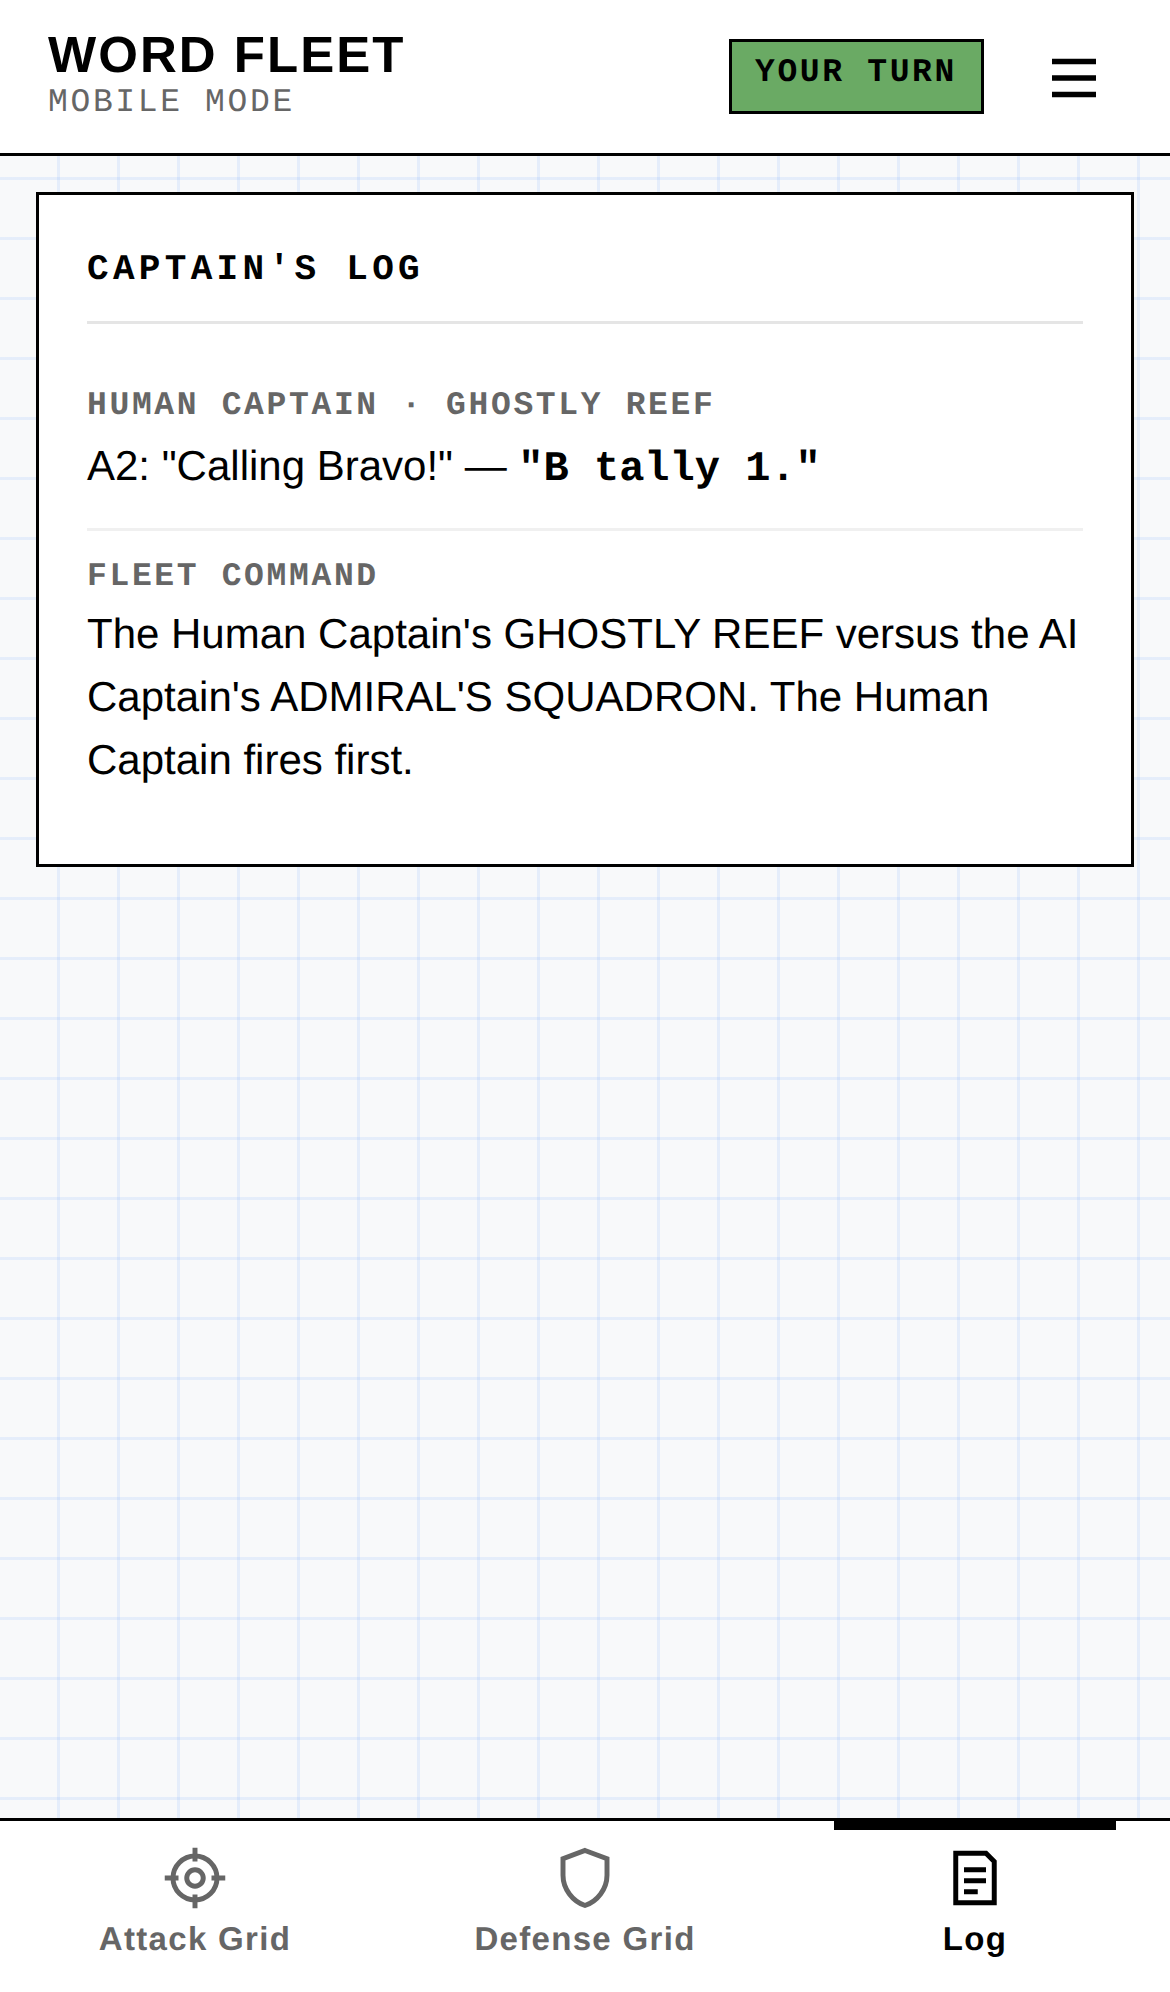
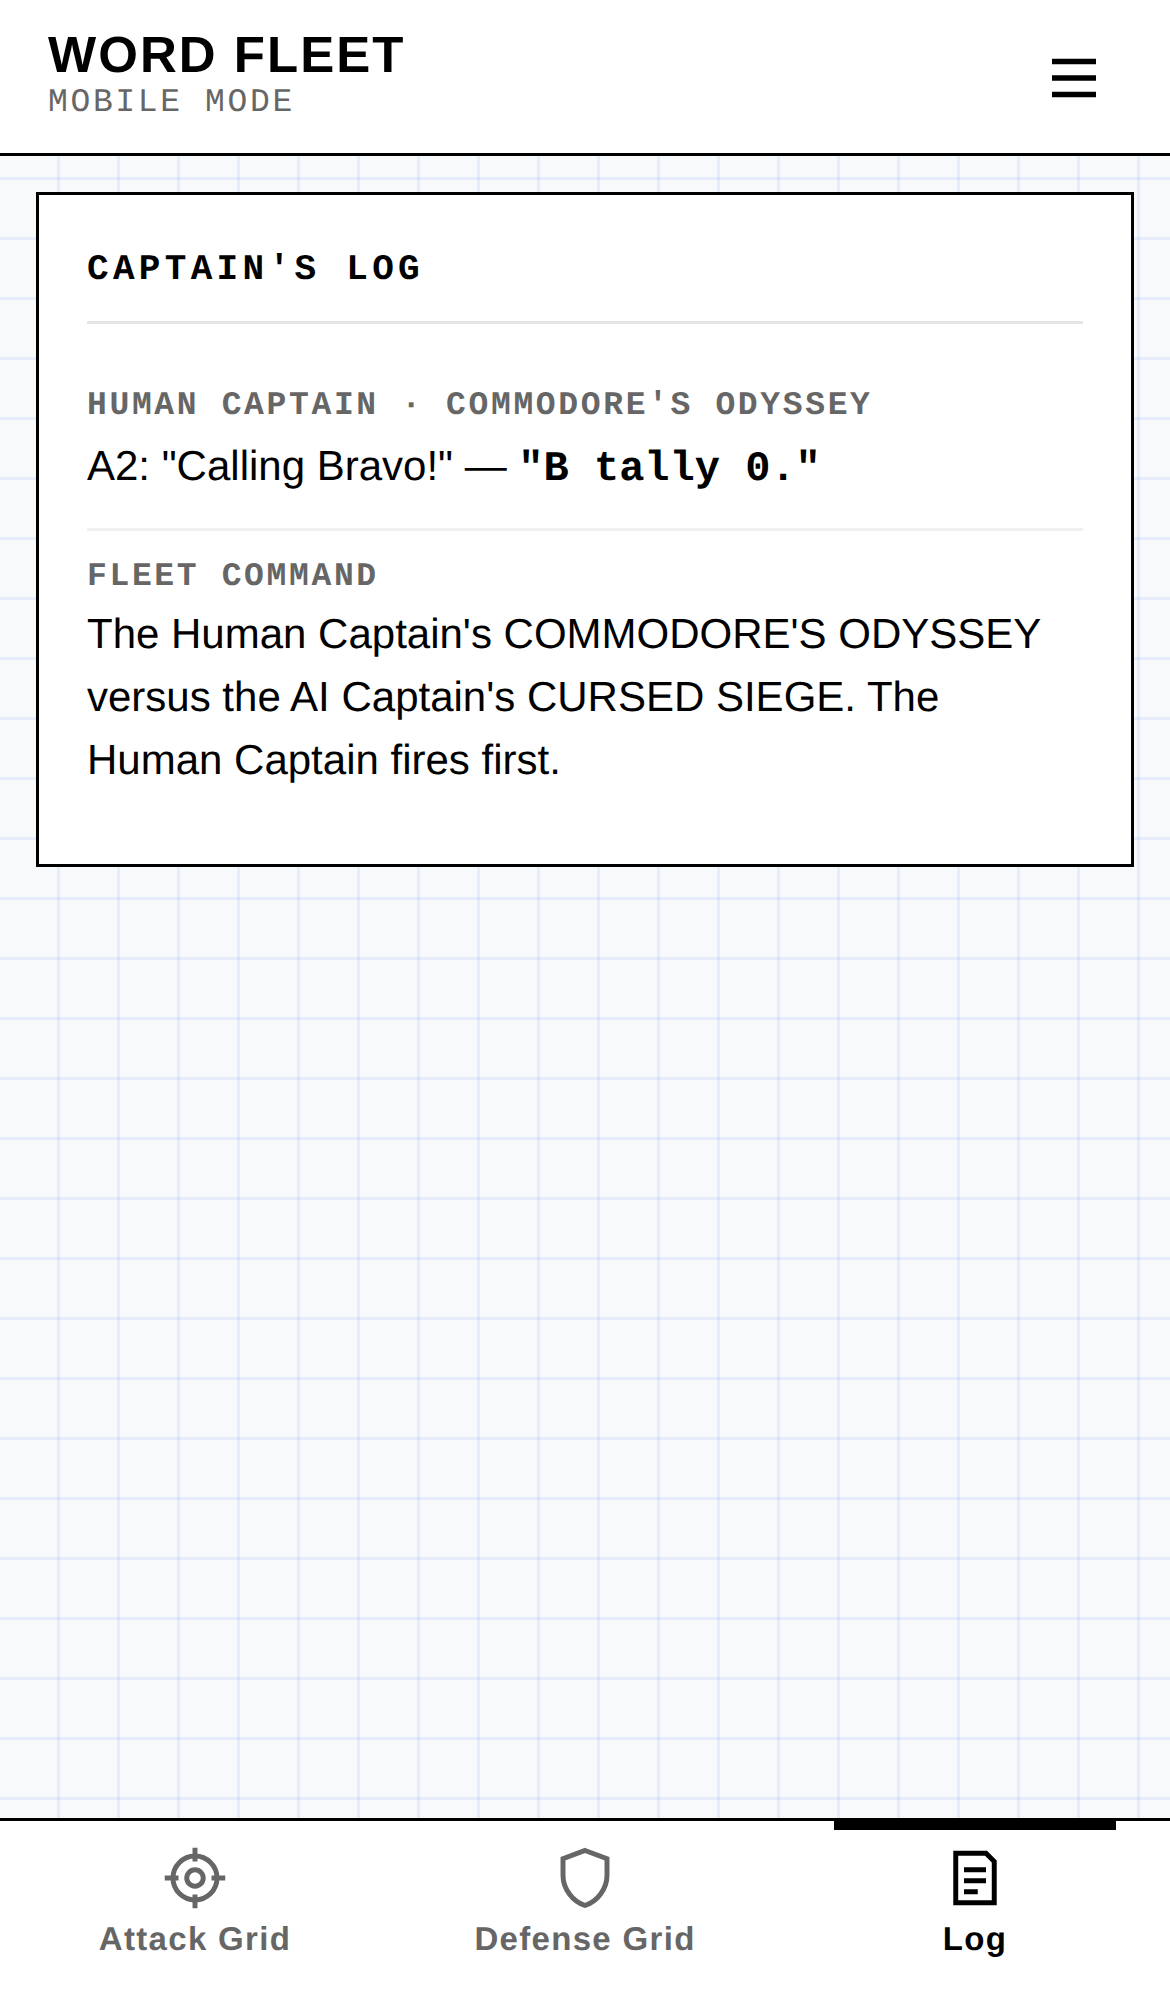
Battle: no turn chip in the header; AI Captain flies a fixed Signal Orange & Black flag (shown on Game Over)
Claude-Session: https://claude.ai/code/session_013sUGAAEC45a1EJCrQWVj9Q

Changed region(s): [[0.0615, 0.3112, 0.9231, 0.4046], [0.6154, 0.0, 0.8615, 0.0622], [0.4, 0.1867, 0.7385, 0.249]]

diff --git a/mobile/app.js b/mobile/app.js
@@ -40,6 +40,10 @@
   // Color schemes offered on 001: a dark first color and a light second color that reads clearly as text
   // on the first. No greens or teals: green belongs to the game's own colors.
   // Every pair is at least 7:1 contrast (WCAG AAA). Saved as S.colors; where they apply is decided later.
+  // The AI Captain always flies one scheme: bright background, dark text (the reverse of every player
+  // scheme), in a hue no player scheme uses. 7.5:1 contrast.
+  var FOE_SCHEME = { id: 'signal-orange', name: 'Signal Orange & Black', colors: ['#ff7f27', '#111111'] };
+
   var COLOR_SCHEMES = [
     { id: 'plum-peach',      name: 'Plum & Peach',      colors: ['#4a1942', '#ffc9a8'] },   // 9.4:1
     { id: 'crimson-gold',    name: 'Crimson & Gold',    colors: ['#7a1216', '#ffd24a'] },   // 7.6:1
@@ -632,7 +636,7 @@
 
   function renderBattle() {
     var mine = S.turn === 'me';
-    setBar(mine ? 'Your Turn' : 'AI Captain\'s Turn', mine ? '' : 'is-foe');
+    setBar(null);   // whose turn it is shows in the Attack panel, not the header
     Array.prototype.forEach.call($('tabbar').children, function (b) { b.classList.toggle('is-on', b.getAttribute('data-tab') === ui.tab); });
     $('tabAttack').hidden = ui.tab !== 'Attack';
     $('tabDefense').hidden = ui.tab !== 'Defense';
@@ -1154,6 +1158,9 @@
     $('overFoeWords').textContent = S.foe.words.join(' • ');
     $('overMyWords').textContent = S.me.words.join(' • ');
     var fb = foeBoard(), mb = myBoard();
+    // Each fleet flies its flag: the AI Captain's Signal Orange & Black, yours in your scheme.
+    $('overFoeFlag').innerHTML = flagSvg(FOE_SCHEME, fleetInitials(S.foe.name) || 'AI');
+    $('overMyFlag').innerHTML = flagSvg(schemeOf(S.colors), fleetInitials(S.me.name) || 'WF');
     paint($('gridOverFoe'), function (r, c) {
       var k = key(r, c), cell = fb[k], s = S.myShots[k];
       var cls = cell ? (s && s.letter ? 'is-bull' : 'is-ship') : s && s.empty ? 'is-empty' : '';

diff --git a/mobile/index.html b/mobile/index.html
@@ -18,7 +18,7 @@
   <link rel="preconnect" href="https://fonts.gstatic.com" crossorigin>
   <link href="https://fonts.googleapis.com/css2?family=Courier+Prime:wght@400;700&family=Inter:wght@400;500;600;700&display=swap" rel="stylesheet">
   <!-- Bump ?v= on every release (and CACHE in sw.js) so a new page never runs old code. -->
-  <link rel="stylesheet" href="app.css?v=81">
+  <link rel="stylesheet" href="app.css?v=82">
 </head>
 <body>
 
@@ -212,11 +212,11 @@
       <button class="btn btn--primary btn--wide" id="btnAgain" type="button">New Battle</button>
     </div>
     <div class="card card--flush">
-      <div class="grid-label">AI CAPTAIN'S FLEET <span id="overFoeWords"></span></div>
+      <div class="grid-label"><span class="over-fleet"><i class="over-flag" id="overFoeFlag"></i>AI CAPTAIN'S FLEET</span> <span id="overFoeWords"></span></div>
       <div class="grid" id="gridOverFoe"></div>
     </div>
     <div class="card card--flush">
-      <div class="grid-label">HUMAN CAPTAIN'S DEFENSE GRID <span id="overMyWords"></span></div>
+      <div class="grid-label"><span class="over-fleet"><i class="over-flag" id="overMyFlag"></i>HUMAN CAPTAIN'S DEFENSE GRID</span> <span id="overMyWords"></span></div>
       <div class="grid" id="gridOverMe"></div>
     </div>
   </section>
@@ -234,7 +234,7 @@
 
 <div class="toast" id="toast" hidden></div>
 
-<script src="audio.js?v=81"></script>
-<script src="app.js?v=81"></script>
+<script src="audio.js?v=82"></script>
+<script src="app.js?v=82"></script>
 </body>
 </html>

diff --git a/mobile/app.css b/mobile/app.css
@@ -540,3 +540,8 @@ button.mf { font: inherit; color: var(--ink); width: 100%; padding: 3px 0 2px; c
   background: linear-gradient(to right, var(--green) var(--progress, 0%), var(--paper) var(--progress, 0%));
   color: var(--ink); filter: brightness(0.9); transform: translateY(1px);
 }
+
+/* 010 Game Over: each fleet's flag beside its grid label */
+.grid-label > .over-fleet { display: flex; align-items: center; gap: 8px; color: var(--ink); font-weight: 700; letter-spacing: 0.12em; text-align: left; }
+.over-flag { display: block; width: 36px; flex-shrink: 0; }
+.over-flag svg { display: block; width: 100%; height: auto; }

diff --git a/mobile/sw.js b/mobile/sw.js
@@ -1,11 +1,11 @@
 /* Word Fleet service worker: the whole game works offline once loaded. */
-var CACHE = 'wordfleet-v81';
+var CACHE = 'wordfleet-v82';
 var SHELL = [
   './',
   'index.html',
-  'app.css?v=81',
-  'app.js?v=81',
-  'audio.js?v=81',
+  'app.css?v=82',
+  'app.js?v=82',
+  'audio.js?v=82',
   'manifest.webmanifest',
   'icons/icon-180.png',
   'icons/icon-192.png',

diff --git a/mobile/screens/README.md b/mobile/screens/README.md
@@ -12,11 +12,11 @@ referred to by name when asking for changes. Each has a reference snapshot in th
 | **002-MOBILE-OPPONENT** | `<section id="scrOpponent" data-screen="002-MOBILE-OPPONENT">`, `SCREENS.opponent` | `002-mobile-opponent.png` | Header line: your flag and fleet name. Card title "Choose Your Opponent", section "Pick the AI Captain you'll face": 🦆 Rubber Duck, ⚓ Steady, 📖 Lexicon, each with a character sketch and five example words (5, 4, 3, 3, 2 letters) from that captain's tier of the chosen dictionary, never offensive. "NEXT: WORD-SHIPS" (50%), Back. |
 | **003-MOBILE-WORD-SHIPS** | `<section id="scrWords" data-screen="003-MOBILE-WORD-SHIPS">`, `SCREENS.words` | `003-mobile-word-ships.png` | Header line: your flag and fleet name. Card title "Build Your Word-Ships". "Allow possibly offensive words" switch ("Applies to both fleets."). Section "Check your five word-ships" with ↻ REFRESH ALL; "Tap any word to type your own." Each word has a ↻ redraw; a typed word is checked against the dictionary when its box loses focus, and all are checked on "NEXT: DEPLOY" (75%). Back. |
 | **004-MOBILE-DEPLOY** | `<section id="scrDeploy" data-screen="004-MOBILE-DEPLOY">`, `SCREENS.deploy` | `004-mobile-deploy.png` | Step 4 of 4 of Prepare for Battle, same look as 001-003; header line: your flag and fleet name. Card title "Deploy Your Fleet", then the Defense Grid dressed like the in-game one ("DEFENSE GRID PREVIEW" banner with your fleet name under it, in your fleet's colors from 001: color 1 behind, color 2 for the text, color 1 along the top edge). Opens with the five word-ships already deployed at random, in green; they never leave the grid. Section "Keep this layout or rearrange it" with ⇄ SHUFFLE (new random layout); drag a ship to move it, double-tap its first letter to turn it. "LET THE BATTLE BEGIN!" (progress bar full), Back. |
-| **005-MOBILE-ATTACK** | `<div id="tabAttack" data-screen="005-MOBILE-ATTACK">` in `#scrBattle` | `005-mobile-attack.png` | Battle, Attack Grid tab: banner with the five ship circles, the Attack Grid, the Attack Manifest, and the panel below (your turn, the result of your call with Solve a Word and End Turn, or "AI Captain is choosing a square"). |
+| **005-MOBILE-ATTACK** | `<div id="tabAttack" data-screen="005-MOBILE-ATTACK">` in `#scrBattle` | `005-mobile-attack.png` | Battle, Attack Grid tab (no turn chip in the header; whose turn it is shows in the panel): banner with the five ship circles, the Attack Grid, the Attack Manifest, and the panel below (your turn, the result of your call with Solve a Word and End Turn, or "AI Captain is choosing a square"). |
 | **006-MOBILE-CALL-LETTER** | sheet, `data-screen="006-MOBILE-CALL-LETTER"` | `006-mobile-call-letter.png` | Opens when you tap a hidden square: pick a letter to call (vowels marked −1 turn), or Cancel. |
 | **007-MOBILE-DEFENSE** | `<div id="tabDefense" data-screen="007-MOBILE-DEFENSE">` | `007-mobile-defense.png` | Battle, Defense Grid tab: incoming report, your fleet with the AI Captain's picks, the Defense Manifest. |
 | **008-MOBILE-LOG** | `<div id="tabLog" data-screen="008-MOBILE-LOG">` | `008-mobile-log.png` | Battle, Log tab: the Captain's Log of every call. |
 | **009-MOBILE-SURRENDER** | Attack panel in Demand Surrender mode, `data-screen="009-MOBILE-SURRENDER"` | `009-mobile-surrender.png` | Name every AI word-ship, its first square and heading; "I Demand Your Surrender!" asks once more before it counts. |
-| **010-MOBILE-GAME-OVER** | `<section id="scrOver" data-screen="010-MOBILE-GAME-OVER">`, `SCREENS.over` | `010-mobile-game-over.png` | Result, stats, New Battle, and both fleets revealed. |
+| **010-MOBILE-GAME-OVER** | `<section id="scrOver" data-screen="010-MOBILE-GAME-OVER">`, `SCREENS.over` | `010-mobile-game-over.png` | Result, stats, New Battle, and both fleets revealed, each with its flag: the AI Captain's fixed Signal Orange & Black (`FOE_SCHEME`, bright background with dark text, the reverse of every player scheme) and yours in your scheme. |
 | **MOBILE-MENU** *(any screen)* | sheet, `data-screen="MOBILE-MENU"` | `mobile-menu.png` | The ☰ menu: New Battle, Rules of Engagement, Home Port, By The Game Bureau, Abandon Battle, Sound Effects and Music switches. |
 | **MOBILE-RULES** *(any screen)* | sheet, `data-screen="MOBILE-RULES"` | `mobile-rules.png` | Rules of Engagement. |
